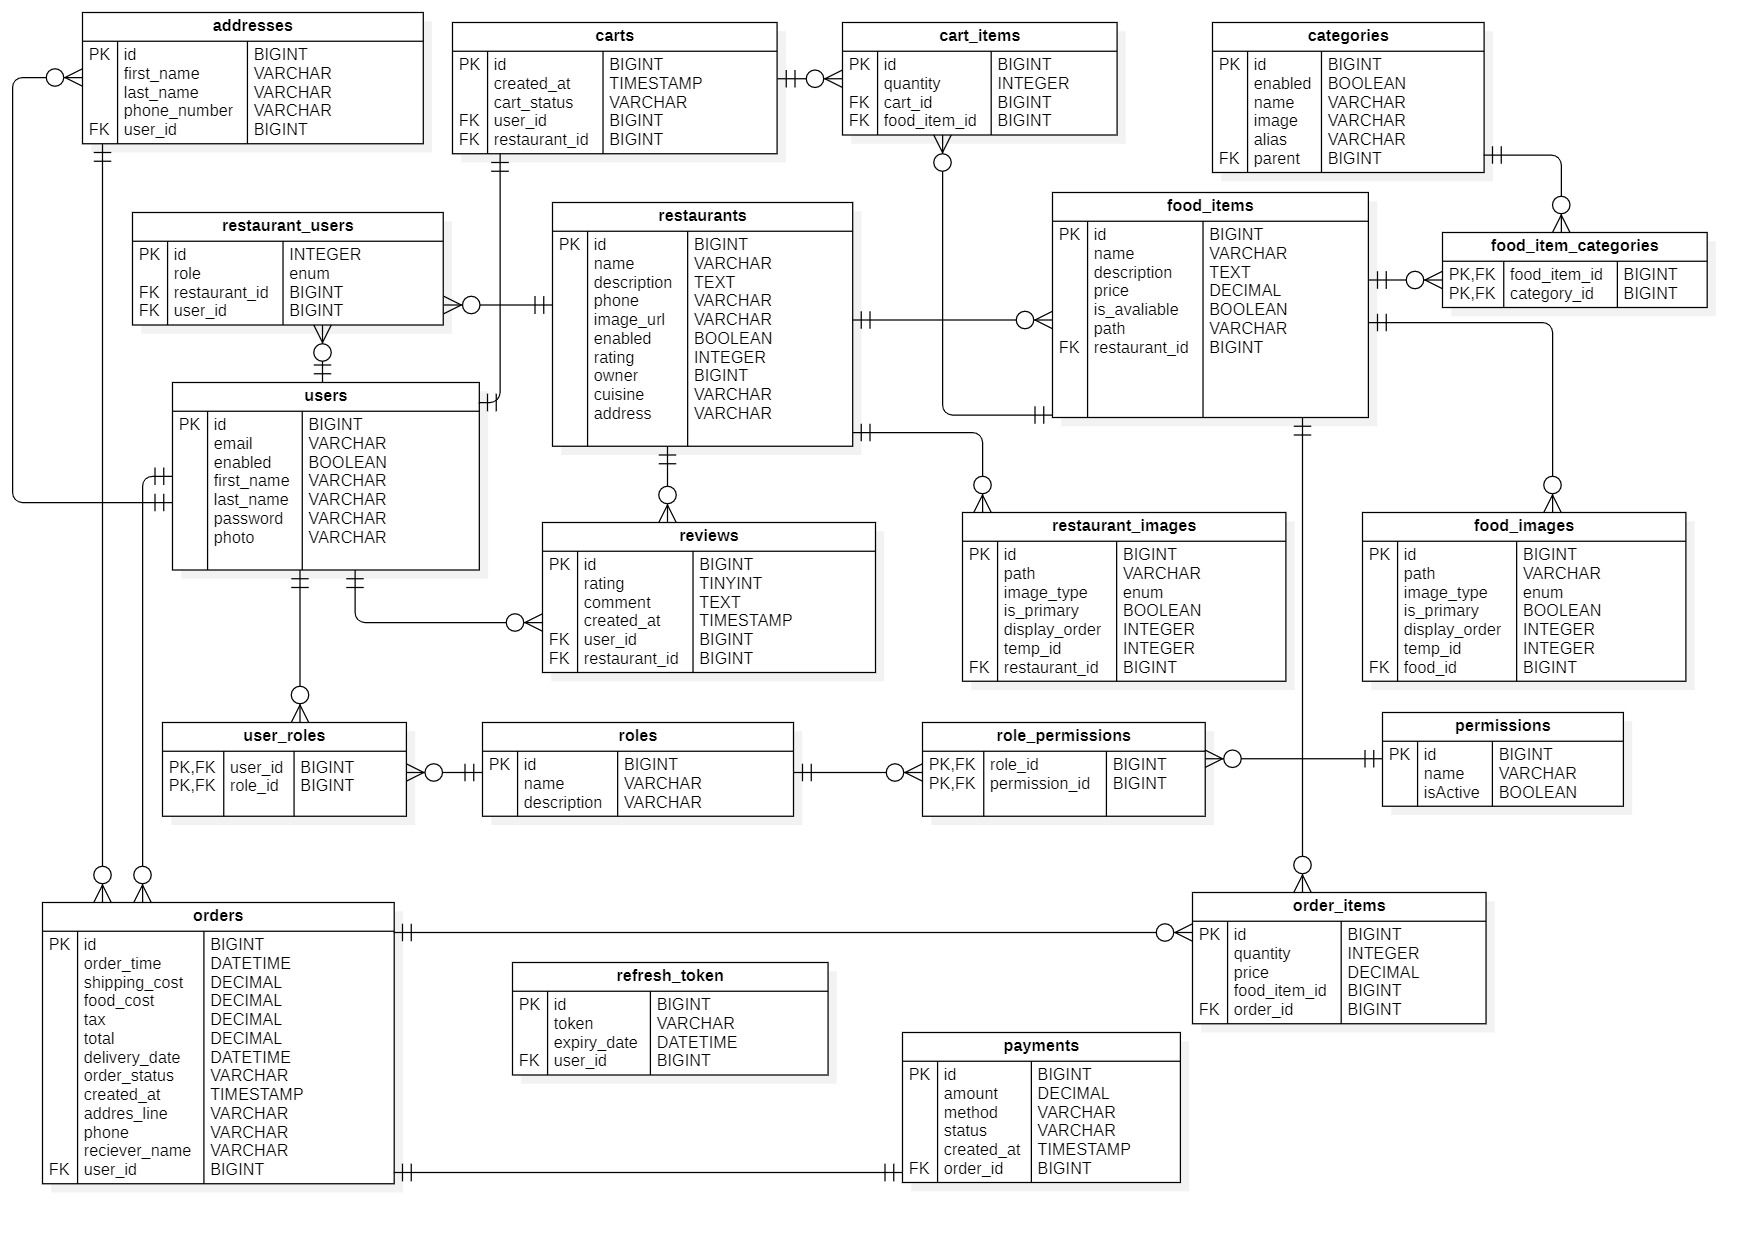
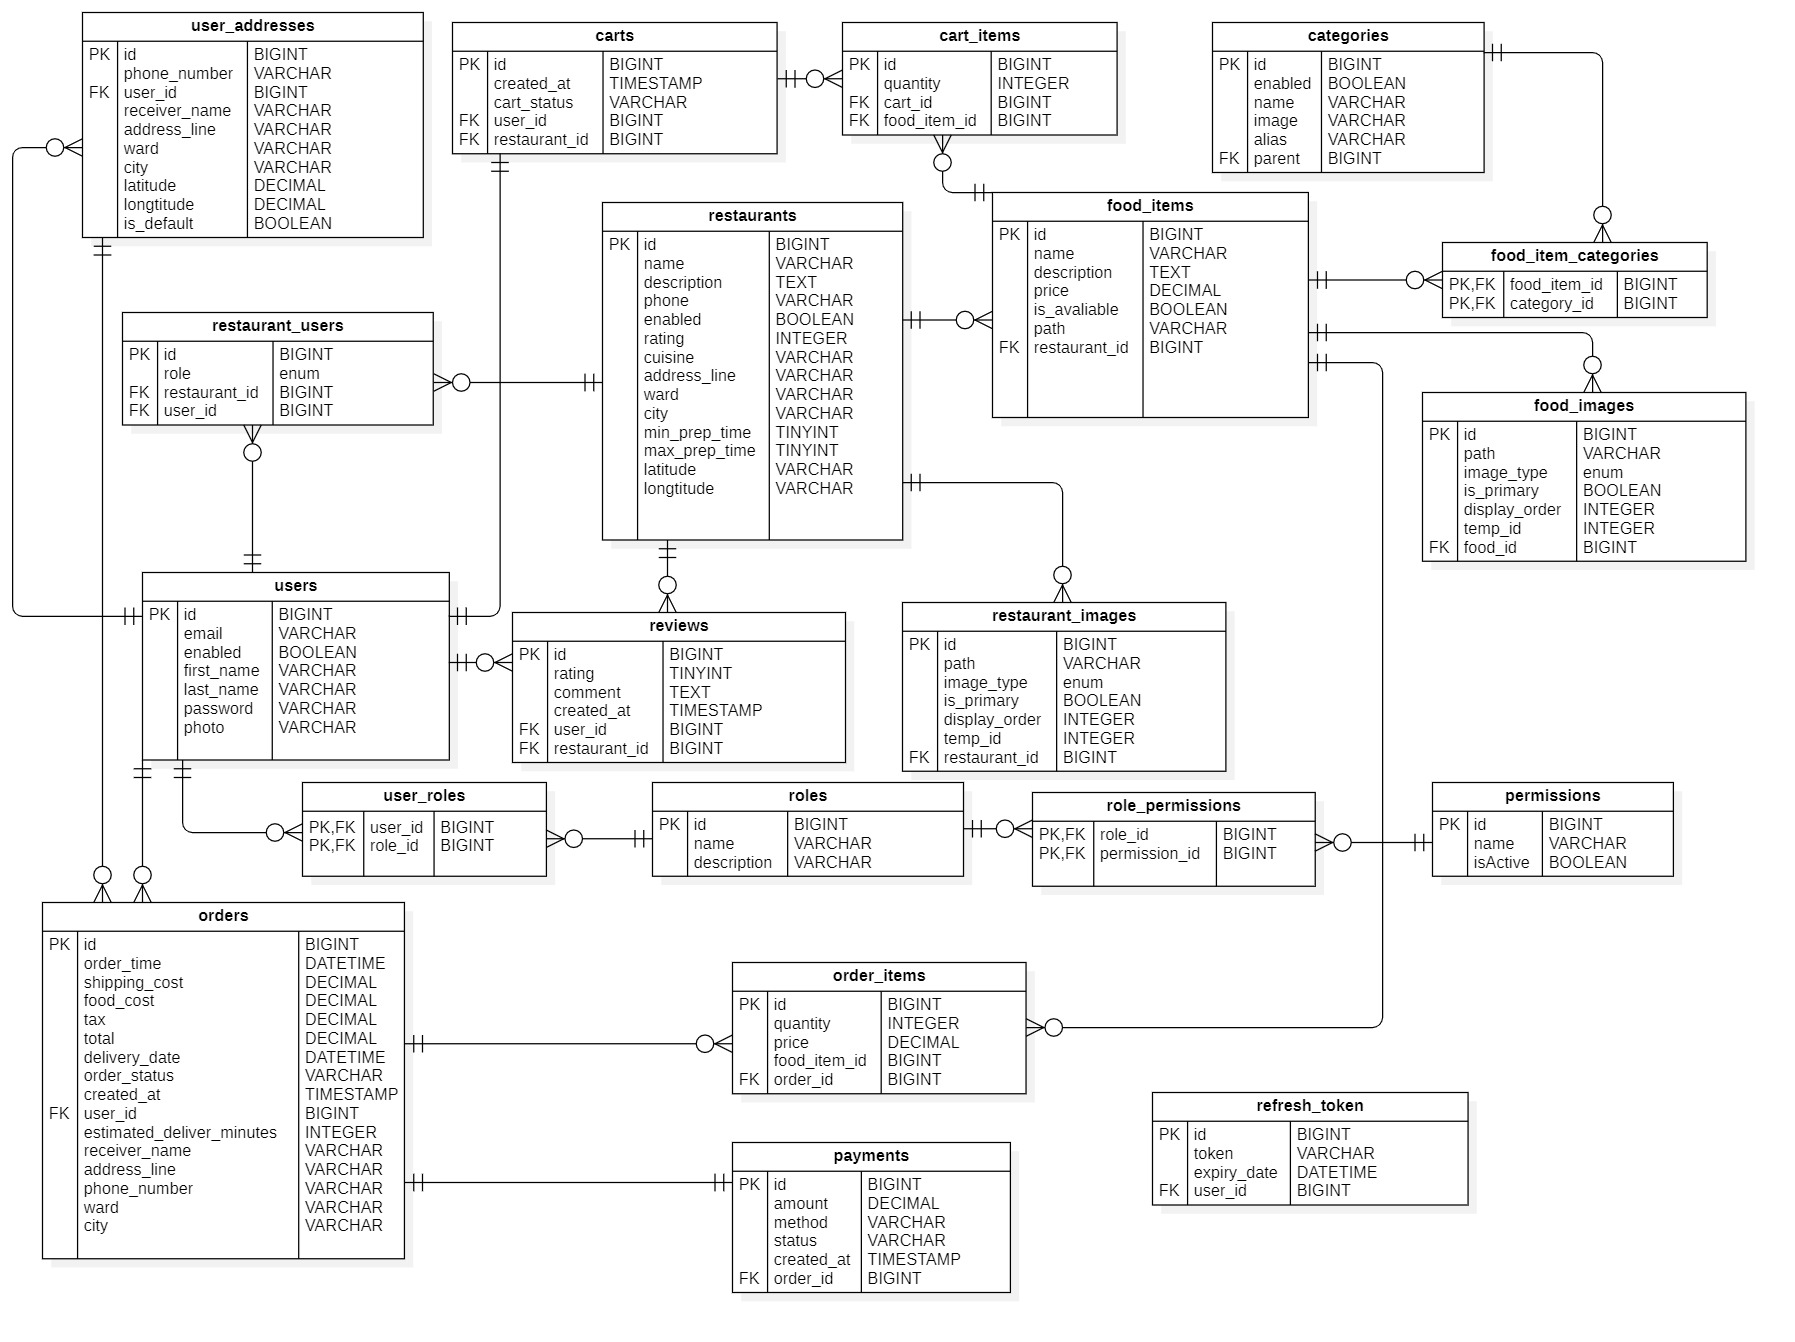
upload latest schema

Changed region(s): [[0.0, 0.0, 0.9841, 0.9554], [0.2768, 0.7088, 0.8303, 0.9862], [0.2153, 0.9246, 0.246, 0.9554]]

diff --git a/hungry-belly-frontend/customer-app/src/App.jsx b/hungry-belly-frontend/customer-app/src/App.jsx
@@ -1,13 +1,13 @@
 import { useState } from "react";
 import { BrowserRouter, Route, Routes } from "react-router-dom";
-import Navbar from "./components/Navbar";
+
 import HomePage from "./pages/HomePage";
 import RestaurantsPage from "./pages/RestaurantsPage";
 import RestaurantDetailPage from "./pages/RestaurantDetailPage";
 import CartPage from "./pages/CartPage";
 import OrdersPage from "./pages/OrdersPage";
 import ContactPage from "./pages/ContactPage";
-import Footer from "./components/Footer";
+import HomeLayout from "./layouts/HomeLayout";
 
 const App = () => {
   const [cartItems, setCartItems] = useState([]);
@@ -51,32 +51,28 @@ const App = () => {
 
   return (
     <BrowserRouter>
-      <div className="d-flex flex-column min-vh-100">
-        <Navbar cartCount={cartCount} />
-        <main className="grow">
-          <Routes>
-                    <Route path="/" element={<HomePage />} />
-                    <Route path="/restaurants" element={<RestaurantsPage />} />
-                    <Route
-                      path="/restaurant/:id"
-                      element={<RestaurantDetailPage addToCart={addToCart} />}
-                    />
-                    <Route
-                      path="/cart"
-                      element={
-                        <CartPage
-                          cartItems={cartItems}
-                          updateQuantity={updateQuantity}
-                          clearCart={clearCart}
-                        />
-                      }
-                    />
-                    <Route path="/orders" element={<OrdersPage />} />
-                    <Route path="/contact" element={<ContactPage />} />
-          </Routes>
-        </main>
-        <Footer />
-      </div>
+      <Routes>
+        <Route path="/" element={<HomeLayout />}>
+          <Route path="/" element={<HomePage />} />
+          <Route path="/restaurants" element={<RestaurantsPage />} />
+          <Route
+            path="/restaurant/:id"
+            element={<RestaurantDetailPage addToCart={addToCart} />}
+          />
+          <Route
+            path="/cart"
+            element={
+              <CartPage
+                cartItems={cartItems}
+                updateQuantity={updateQuantity}
+                clearCart={clearCart}
+              />
+            }
+          />
+          <Route path="/orders" element={<OrdersPage />} />
+          <Route path="/contact" element={<ContactPage />} />
+        </Route>
+      </Routes>
     </BrowserRouter>
   );
 };

diff --git a/hungry-belly-frontend/customer-app/src/pages/HomePage.jsx b/hungry-belly-frontend/customer-app/src/pages/HomePage.jsx
@@ -137,32 +137,6 @@ function HomePage() {
           </div>
         </div>
       </section>
-
-      {/* CTA Section */}
-      <section
-        className="py-5"
-        style={{
-          background: "linear-gradient(135deg, #F26B5B 0%, #F5C85C 100%)",
-          color: "white",
-        }}
-      >
-        <div className="container text-center">
-          <h2 className="mb-3 fw-bold">Ready to Order?</h2>
-          <p className="mb-4 fs-5">
-            Download our app and get 20% off your first order!
-          </p>
-          <div className="d-flex justify-content-center gap-3">
-            <button className="btn btn-light btn-lg">
-              <i className="bi bi-apple me-2"></i>
-              App Store
-            </button>
-            <button className="btn btn-light btn-lg">
-              <i className="bi bi-google-play me-2"></i>
-              Play Store
-            </button>
-          </div>
-        </div>
-      </section>
     </>
   );
 }

diff --git a/hungry-belly-frontend/customer-app/src/layouts/HomeLayout.jsx b/hungry-belly-frontend/customer-app/src/layouts/HomeLayout.jsx
@@ -1,0 +1,17 @@
+import Navbar from "../components/Navbar";
+import { Outlet } from "react-router-dom";
+import Footer from "../components/Footer";
+
+const HomeLayout = () => {
+  return (
+    <div className="d-flex flex-column min-vh-100">
+      <Navbar cartCount={0} />
+      <main className="grow">
+        <Outlet />
+      </main>
+      <Footer />
+    </div>
+  );
+};
+
+export default HomeLayout;

diff --git a/hungry-belly-frontend/customer-app/src/components/Navbar.jsx b/hungry-belly-frontend/customer-app/src/components/Navbar.jsx
@@ -1,7 +1,7 @@
 import { Link, NavLink } from "react-router-dom";
 import { assets } from "../assets/assets";
 
-function Navbar({ cartCount }) {
+function Navbar({ cartCount = 0 }) {
   return (
     <nav className="navbar navbar-expand-lg navbar-light bg-white sticky-top">
       <div className="container">
